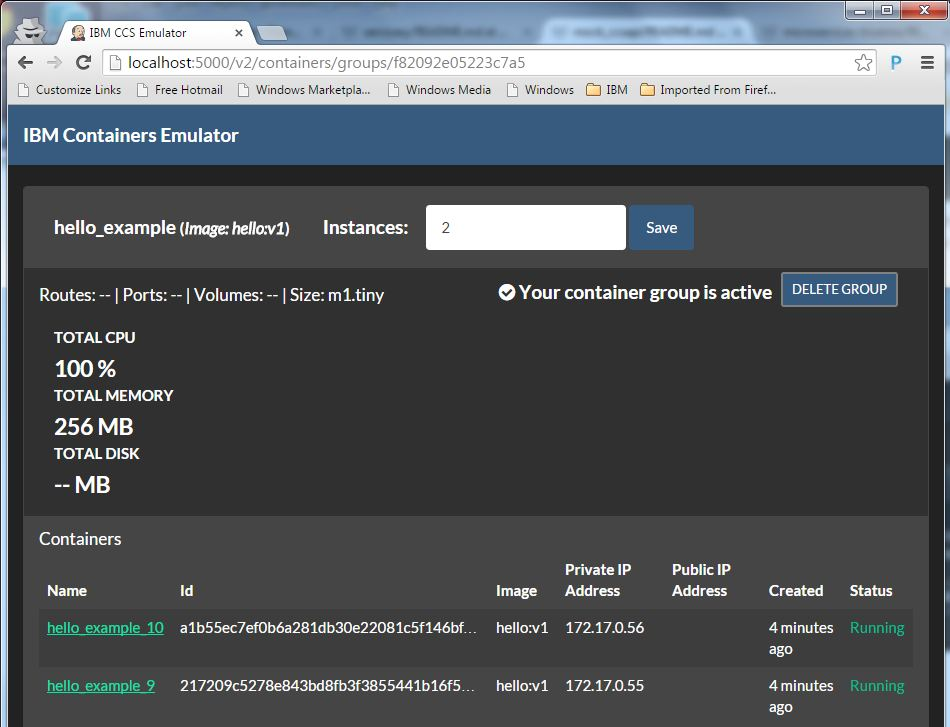
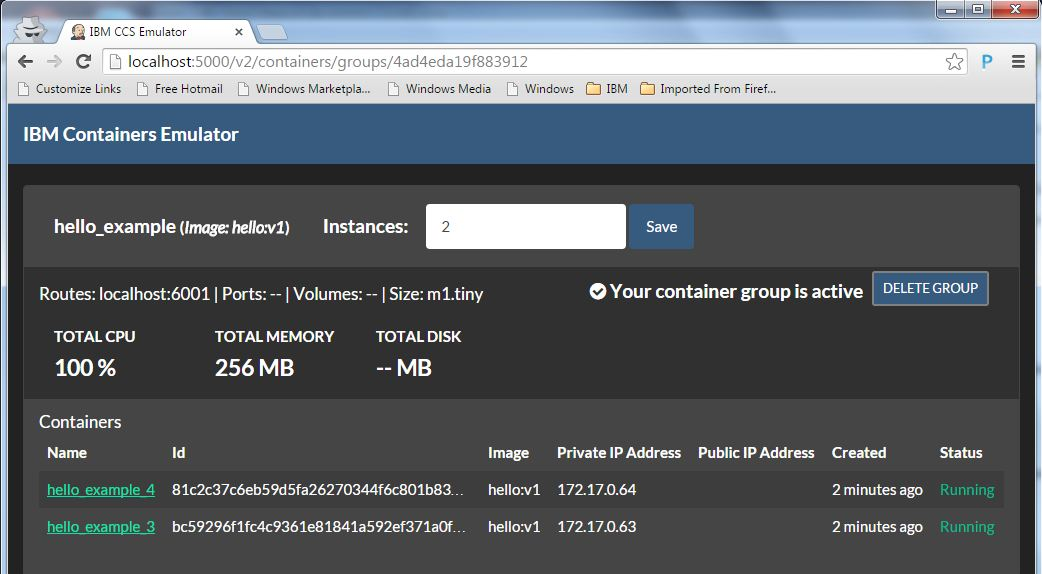
display Routes in groups UI page

diff --git a/api/ccs/group.js b/api/ccs/group.js
@@ -165,7 +165,7 @@ ccs.GroupViewModel = function() {
         self.numContainers(jso.NumberInstances.Desired); // this isn't necessarily the number of containers if they are spinning up - but otherwise would have to do calls to retrieve containers list filtered by group and then count.
         self.status('ACTIVE'); // TODO - this has to be computed
         self.port = jso.Port;
-        self.route('--'); // TODO this has to be retrieved
+        self.route(jso.Routes ? jso.Routes[0] : '--'); // TODO what to do in case we have more than one Route?
         self.volumes([]); // TODO this has to be retrieved
 
         self.getContainers();

diff --git a/api/ccs/templates/group.html b/api/ccs/templates/group.html
@@ -36,7 +36,7 @@
 
       <div class="panel-body">
         <div class="panel-title bg-error">
-          <span>Routes: --</span> | <span>Ports: --</span> | <span>Volumes: --</span> | Size: <span>m1.tiny</span>
+          <span>Routes: <span data-bind="text: route"></span></span> | <span>Ports: --</span> | <span>Volumes: --</span> | Size: <span>m1.tiny</span>
         </div>
 
         <div class="row" style="margin-top: 20px;">

diff --git a/README.md b/README.md
@@ -79,9 +79,9 @@ If everything worked as expected you should now have 2 instances of the hello ex
 ```
 $ docker ps
 CONTAINER ID        IMAGE                         COMMAND                CREATED             STATUS              PORTS                                                      NAMES
-364c56ed7138        hello:v1                      "python -u /hello/ap   16 hours ago        Up 16 hours         5000/tcp                                                   hello_example_4
-0368617b9019        hello:v1                      "python -u /hello/ap   16 hours ago        Up 16 hours         5000/tcp                                                   hello_example_3
-cd76c5ff9b0e        xdevops/ccs-emulator:latest   "/ccs-emulator/run-s   24 hours ago        Up 24 hours         0.0.0.0:5000->5000/tcp, 0.0.0.0:6001-6009->6001-6009/tcp   ccs-emulator
+81c2c37c6eb5        hello:v1                      "python -u /hello/ap   3 minutes ago       Up 3 minutes        5000/tcp                                                   hello_example_4
+bc59296f1fc4        hello:v1                      "python -u /hello/ap   3 minutes ago       Up 3 minutes        5000/tcp                                                   hello_example_3
+cd76c5ff9b0e        xdevops/ccs-emulator:latest   "/ccs-emulator/run-s   23 hours ago        Up 23 hours         0.0.0.0:5000->5000/tcp, 0.0.0.0:6001-6009->6001-6009/tcp   ccs-emulator
 ```
 As mentioned above, the script maps the container group to the route *localhost:6001*, so if you curl, or point your browser at, http://localhost:6001/ you should see a message something like this:
 ```
@@ -109,14 +109,14 @@ Here you can create new container groups, click on an existing container group t
 
 Try changing the number of instances to 3 and then press the **Save** button.
 
-If you wait about 10 seconds and then check your Docker containers, either using the UI (http://localhost:5000/v3/containers/json) or simply running "docker ps" again, you will see that you now have 2 instances of the hello example image running:
+If you wait a few seconds and then check your Docker containers, either in the UI or by running "docker ps" again, you will see that you now have 3 instances of the hello example image running:
 ```
 $ docker ps
 CONTAINER ID        IMAGE                         COMMAND                CREATED             STATUS              PORTS                                                      NAMES
-8aff88447f9f        hello:v1                      "python -u /hello/ap   8 seconds ago       Up 8 seconds        5000/tcp                                                   hello_example_5
-364c56ed7138        hello:v1                      "python -u /hello/ap   16 hours ago        Up 16 hours         5000/tcp                                                   hello_example_4
-0368617b9019        hello:v1                      "python -u /hello/ap   16 hours ago        Up 16 hours         5000/tcp                                                   hello_example_3
-cd76c5ff9b0e        xdevops/ccs-emulator:latest   "/ccs-emulator/run-s   24 hours ago        Up 24 hours         0.0.0.0:5000->5000/tcp, 0.0.0.0:6001-6009->6001-6009/tcp   ccs-emulator
+c7b43a7c89a8        hello:v1                      "python -u /hello/ap   11 seconds ago      Up 10 seconds       5000/tcp                                                   hello_example_5
+81c2c37c6eb5        hello:v1                      "python -u /hello/ap   10 minutes ago      Up 10 minutes       5000/tcp                                                   hello_example_4
+bc59296f1fc4        hello:v1                      "python -u /hello/ap   10 minutes ago      Up 10 minutes       5000/tcp                                                   hello_example_3
+cd76c5ff9b0e        xdevops/ccs-emulator:latest   "/ccs-emulator/run-s   23 hours ago        Up 23 hours         0.0.0.0:5000->5000/tcp, 0.0.0.0:6001-6009->6001-6009/tcp   ccs-emulator
 ```
 
 ## Using the Cloud Foundry CLI and containers plug-in
